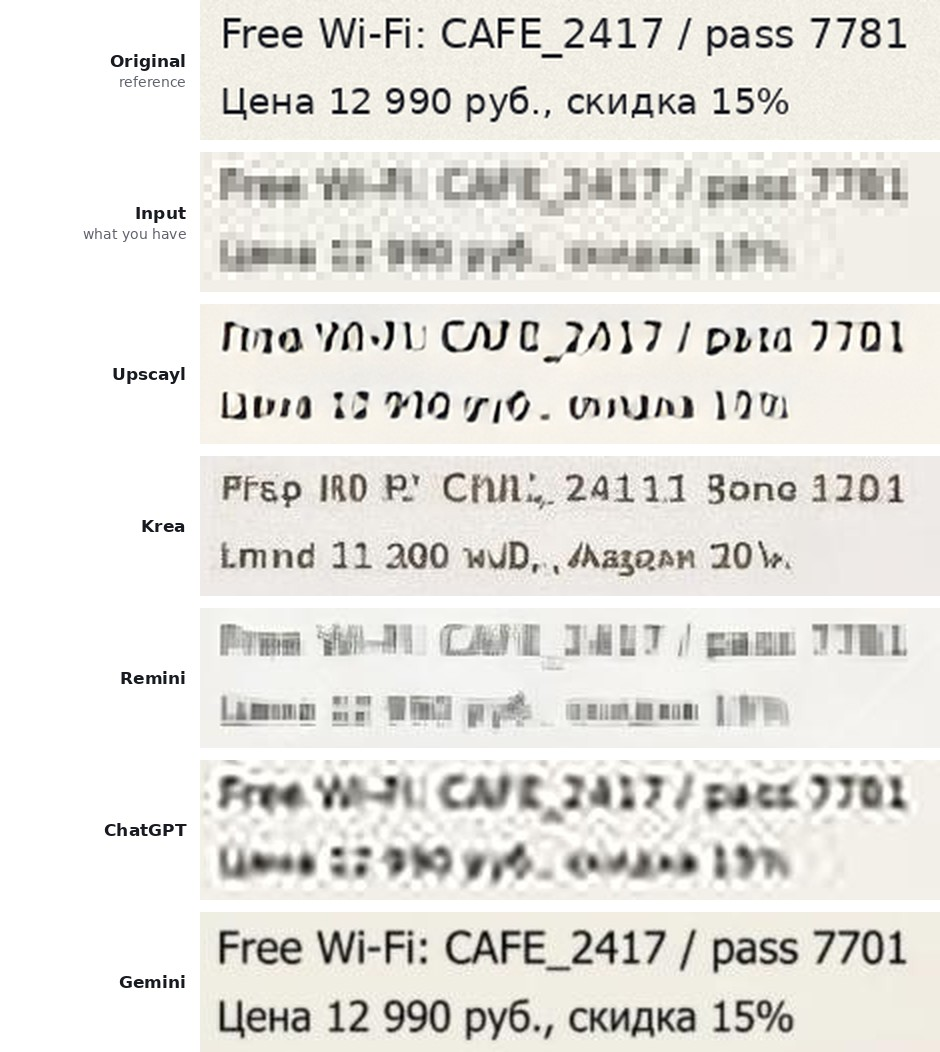
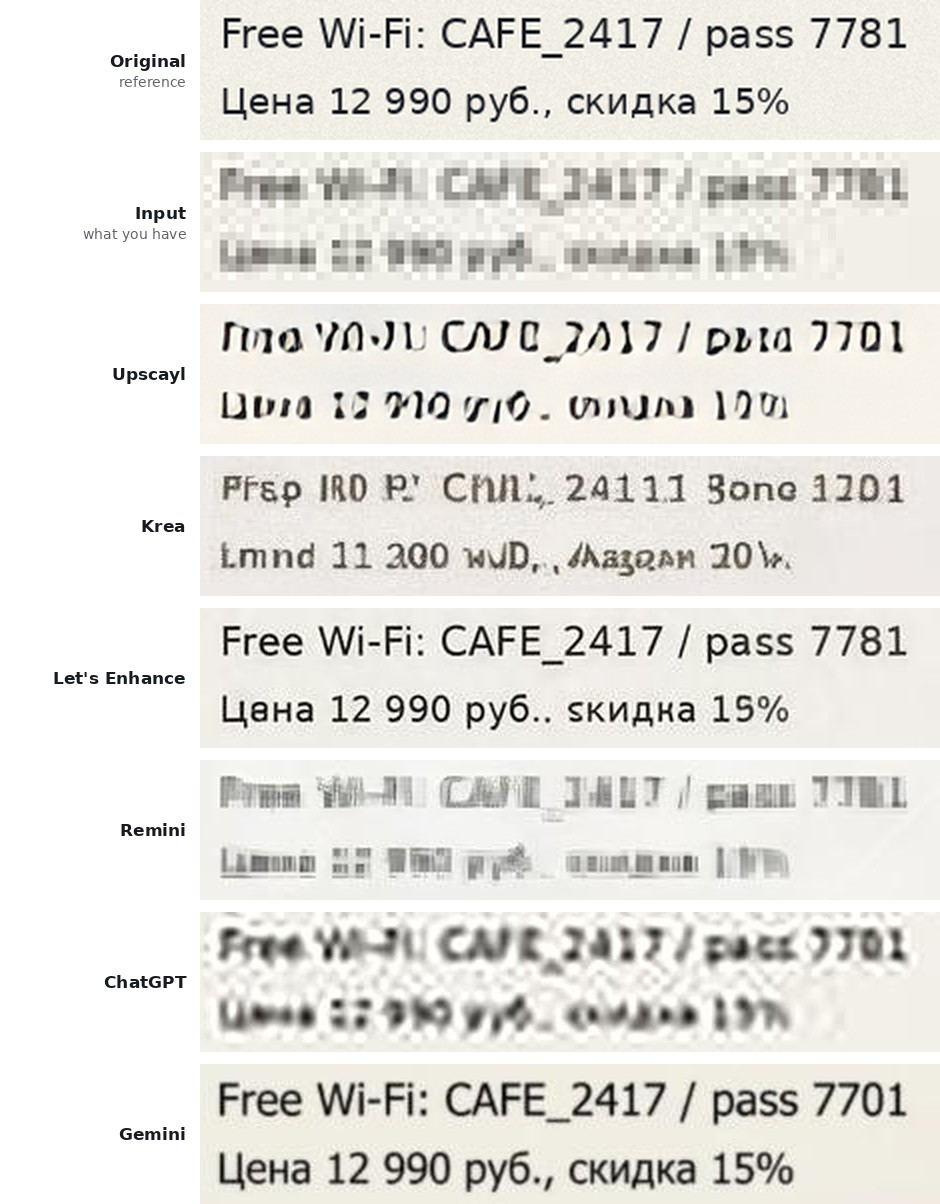
Photo enhancement: add Let's Enhance to the service test
Free account, preset Precise, 4x. Closest to the original of all services on
faces, text and the small photo; the only one that keeps the password right.

Claude-Session: https://claude.ai/code/session_01CpAHvchLuy34vcCADnc47q

diff --git a/experiments/photo-enhance/src/figs_services.py b/experiments/photo-enhance/src/figs_services.py
@@ -79,6 +79,14 @@ for lang in ["ru", "en"]:
         "chatgpt": three("svc_chatgpt", "face_heavy_kodim15", "kodim15.png", FACE_BOX, "ChatGPT",
                          idt.format(v=num(F["svc_chatgpt"]["identity"], lang)), lang),
     }
+    # Let's Enhance: the text lines, stacked
+    figs["letsenhance"] = vstrip([
+        ({"ru": "Вход", "en": "Input"}[lang], {"ru": "что прислали", "en": "what you have"}[lang],
+         load(f"{INP}/text_notice.jpg").resize((768, 512), Image.NEAREST).crop(TEXT_BOX)),
+        ("Let's Enhance", {"ru": "пароль верный", "en": "password correct"}[lang],
+         load(f"{OUT}/svc_letsenhance/text_notice.png").crop(TEXT_BOX)),
+        ({"ru": "Оригинал", "en": "Original"}[lang], {"ru": "эталон", "en": "reference"}[lang],
+         load(f"{GT}/text_notice.png").crop(TEXT_BOX))], 2.0)
     for k, im in figs.items():
         im.save(f"{FIG}/svc-{k}-{lang}.jpg", quality=90)
 
@@ -87,7 +95,7 @@ for lang in ["ru", "en"]:
          "en": {"gt": ("Original", "reference"), "in": ("Input", "what you have")}}[lang]
     rows = [(T["gt"][0], T["gt"][1], load(f"{GT}/text_notice.png").crop(TEXT_BOX)),
             (T["in"][0], T["in"][1], load(f"{INP}/text_notice.jpg").resize((768, 512), Image.NEAREST).crop(TEXT_BOX))]
-    for svc, name in [("svc_upscayl", "Upscayl"), ("svc_krea", "Krea"), ("svc_remini", "Remini"),
+    for svc, name in [("svc_upscayl", "Upscayl"), ("svc_krea", "Krea"), ("svc_letsenhance", "Let's Enhance"), ("svc_remini", "Remini"),
                       ("svc_chatgpt", "ChatGPT"), ("svc_gemini", "Gemini")]:
         rows.append((name, None, load(f"{OUT}/{svc}/text_notice.png").crop(TEXT_BOX)))
     vstrip(rows, 2.0).save(f"{FIG}/fig5-text-services-{lang}.jpg", quality=90)

diff --git a/experiments/photo-enhance/src/metrics_services.py b/experiments/photo-enhance/src/metrics_services.py
@@ -14,7 +14,7 @@ from skimage.metrics import peak_signal_noise_ratio as psnr, structural_similari
 ROOT = os.path.dirname(os.path.dirname(os.path.abspath(__file__)))
 GT, INP, OUT = f"{ROOT}/gt", f"{ROOT}/inputs", f"{ROOT}/out"
 man = json.load(open(f"{INP}/manifest.json"))
-SERVICES = ["svc_upscayl", "svc_krea", "svc_remini", "svc_chatgpt", "svc_gemini"]
+SERVICES = ["svc_upscayl", "svc_krea", "svc_letsenhance", "svc_remini", "svc_chatgpt", "svc_gemini"]
 REF = ["bicubic", "realesrgan_x4plus", "swinir_gan", "gfpgan"]
 
 

diff --git a/experiments/photo-enhance/README.md b/experiments/photo-enhance/README.md
@@ -67,6 +67,7 @@ Three inputs (`face_heavy_kodim15`, `text_notice`, `small_kodim08`) went through
 | --- | --- | --- |
 | Upscayl | the app's default model Upscayl Standard 4x (NCNN files from the Upscayl repo), run on CPU with `src/upscayl_run.py` | 768×512 |
 | Krea | Enhancer, 4x, default settings | 768×512 |
+| Let's Enhance | Upscale & Enhance, default preset Precise, 4x, free account | 768×512, small watermark |
 | Remini Web | one-click enhance, default settings, no account | 1717×1144 / 1536×1024, watermarked |
 | ChatGPT | free account, prompt below | face: a generated 1536×1024 image; text: ChatGPT upscaled it with Python (768×512); small photo: not run, the free image limit was used up |
 | Gemini | free account, same prompt | 1264×843 |
@@ -80,13 +81,14 @@ Results larger than 768×512 were downscaled in the browser (canvas, `imageSmoot
 | Bicubic, for reference | 0.86 | 62% | unreadable | 19.31 / 0.498 |
 | Upscayl | 0.81 | 50% | 7701 | 18.94 / 0.533 |
 | Krea | 0.57 | 49% | 1201 | 17.37 / 0.405 |
+| Let's Enhance | 0.88 | 5% | 7781, correct | 20.20 / 0.599 |
 | Remini | 0.78 | 60% | unreadable | 18.52 / 0.481 |
 | ChatGPT | 0.71 | 55% | blurry, reads as 7701 | not run |
 | Gemini | 0.76 | 3% | 7701 | 17.60 / 0.450 |
 
-Similarity scale: 1 is the same picture, 0.06 is two different people. Gemini redraws the whole picture: the notice comes back sharp and almost fully readable, except one digit of the password; on the kodim08 house the sign «Seifenfabrikation» becomes «Zupfgeigenhansel» and the shutters change colour (`figs/svc-gemini-*.jpg`). Text from every service: `figs/fig5-text-services-*.jpg`.
+Similarity scale: 1 is the same picture, 0.06 is two different people. Let's Enhance is the only service closer to the original than bicubic on all three inputs: the password is right, the errors are in the smallest line («Цвна», «ѕкидка»), and the sign on the house is sharp but unreadable (`figs/svc-letsenhance-*.jpg`). Gemini redraws the whole picture: the notice comes back sharp and almost fully readable, except one digit of the password; on the kodim08 house the sign «Seifenfabrikation» becomes «Zupfgeigenhansel» and the shutters change colour (`figs/svc-gemini-*.jpg`). Text from every service: `figs/fig5-text-services-*.jpg`.
 
-Not run: Let's Enhance (its Google sign-in opens a pop-up window that a person has to click), Neural Love (the free plan has no credits for processing), Topaz web (asks for a plan before processing: from $199 a year, refund within 2 days), Photoshop (the 7-day trial asks for payment details), Magnific (credit-based, not tried), GigaChat, Alice, Samsung Gallery Remaster, Remini mobile.
+Not run: Neural Love (the free plan has no credits for processing), Topaz web (asks for a plan before processing: from $199 a year, refund within 2 days), Photoshop (the 7-day trial asks for payment details), Magnific (credit-based, not tried), GigaChat, Alice, Samsung Gallery Remaster, Remini mobile.
 
 ## Reproduce
 ```bash
